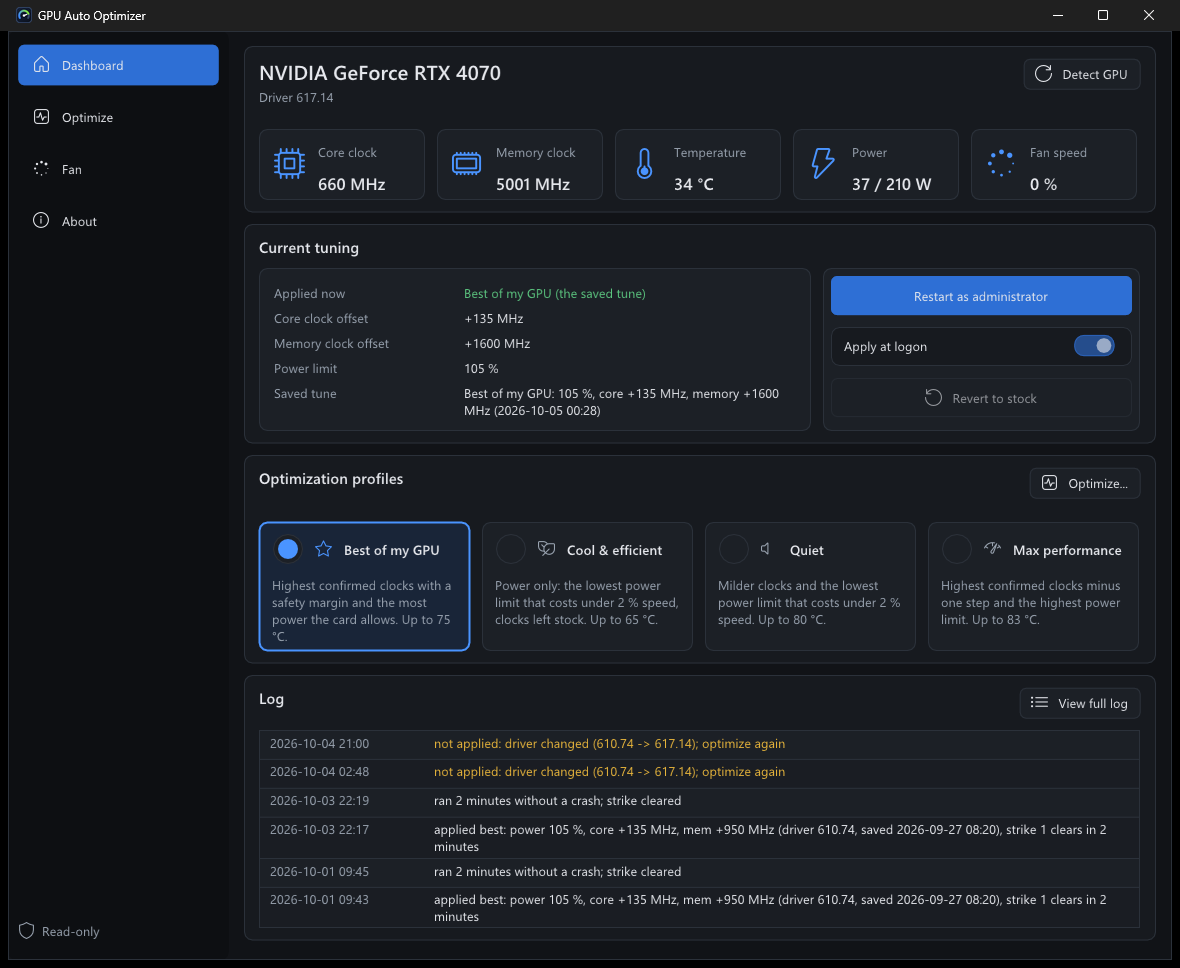
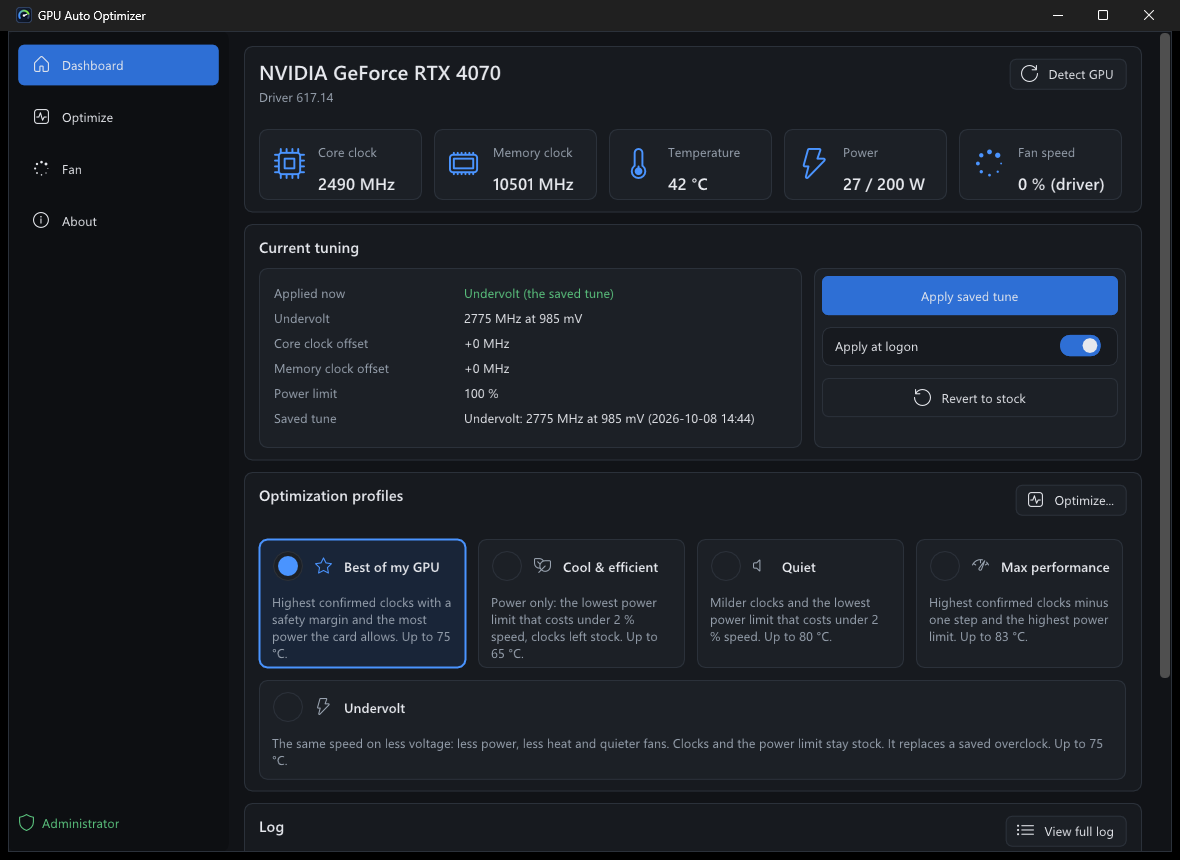
feat(gui): a run draws the curve; the result says how long each side ran and at what fan speed
During a run from the window the run screen draws the card's
voltage/frequency curve as the run writes it, read back once a second, over
the card's own curve, with a dot where the card runs now. An undervolt shows
as a flat top that starts one point further left with each candidate; an
overclock lifts the whole line. The result screen shows the curve as the run
left it.

The before/after table compared a 30 s run at stock with the 300 s soak
without saying so. It now names both durations in its headers, shows the fan
speed each run ended on next to its peak temperature (StabilityResult
end_fan_pct; the command line prints it too), and says that the short stock
run was not heated through, so that only score, clock and power compare
directly.

README and design notes: the Undervolt profile, the curve picture, the
watchdog's new rule, and what the hardware checks of this branch found: the
power saved depends on the temperature the card settles at (25, 22, 20 and
12 % in four runs), because the built-in curve moves under the written
offsets.

Hardware check 70 on the reference RTX 4070.

diff --git a/src/app/gui/ui.cpp b/src/app/gui/ui.cpp
@@ -699,6 +699,96 @@ void choose(UiState& s, const UiActions& act) {
     end_card();
 }
 
+// The voltage/frequency curve a run is writing (UiState::run_curve) over the
+// card's own (run_stock): higher means faster at that voltage. An overclock
+// lifts the whole line; an undervolt lifts the part left of where the card
+// ran and cuts the top off flat. The dot (live: during the run) is where the
+// card runs now: the lowest voltage at which the curve reaches the clock it
+// reports.
+void curve_card(const UiState& s, const char* caption, bool live) {
+    if (s.run_curve.size() < 2) return;   // no run yet, or this card or driver does not offer the curve
+    begin_card("curve");
+    heading("Voltage/frequency curve");
+    wrapped(kDim, caption);
+    const float w = ImGui::GetContentRegionAvail().x, h = em() * 13;
+    const ImVec2 p0 = ImGui::GetCursorScreenPos();
+    ImGui::Dummy(ImVec2(w, h));
+    ImDrawList* dl = ImGui::GetWindowDrawList();
+    dl->AddRectFilled(p0, ImVec2(p0.x + w, p0.y + h), ImGui::GetColorU32(kInner), em() * 0.35f);
+
+    float v_lo = s.run_curve.front().volt_uv / 1000.0f, v_hi = v_lo;
+    float f_lo = s.run_curve.front().freq_khz / 1000.0f, f_hi = f_lo;
+    for (const std::vector<VfPoint>* curve : {&s.run_stock, &s.run_curve})
+        for (const VfPoint& pt : *curve) {
+            v_lo = std::min(v_lo, pt.volt_uv / 1000.0f);
+            v_hi = std::max(v_hi, pt.volt_uv / 1000.0f);
+            f_lo = std::min(f_lo, pt.freq_khz / 1000.0f);
+            f_hi = std::max(f_hi, pt.freq_khz / 1000.0f);
+        }
+    if (v_hi <= v_lo || f_hi <= f_lo) {
+        end_card();
+        return;
+    }
+    const float pad = (f_hi - f_lo) * 0.06f;
+    f_lo -= pad;
+    f_hi += pad;
+    // Room for the axis labels on the left and below.
+    const ImVec2 a(p0.x + em() * 4.6f, p0.y + em() * 0.7f), b(p0.x + w - em() * 1.0f, p0.y + h - em() * 1.9f);
+    auto at = [&](float mv, float mhz) {
+        return ImVec2(a.x + (mv - v_lo) / (v_hi - v_lo) * (b.x - a.x), b.y - (mhz - f_lo) / (f_hi - f_lo) * (b.y - a.y));
+    };
+    const ImU32 grid = ImGui::GetColorU32(kBorder), label = ImGui::GetColorU32(kDim);
+    char text[48];
+    for (int mhz = (static_cast<int>(f_lo) / 500 + 1) * 500; mhz < f_hi; mhz += 500) {
+        const float y = at(v_lo, static_cast<float>(mhz)).y;
+        dl->AddLine(ImVec2(a.x, y), ImVec2(b.x, y), grid);
+        std::snprintf(text, sizeof(text), "%d MHz", mhz);
+        dl->AddText(ImVec2(a.x - ImGui::CalcTextSize(text).x - em() * 0.5f, y - em() * 0.5f), label, text);
+    }
+    for (int mv = (static_cast<int>(v_lo) / 100 + 1) * 100; mv < v_hi; mv += 100) {
+        const float x = at(static_cast<float>(mv), f_lo).x;
+        dl->AddLine(ImVec2(x, a.y), ImVec2(x, b.y), grid);
+        std::snprintf(text, sizeof(text), "%d mV", mv);
+        dl->AddText(ImVec2(x - ImGui::CalcTextSize(text).x / 2, b.y + em() * 0.35f), label, text);
+    }
+    auto line = [&](const std::vector<VfPoint>& curve, const ImVec4& colour, float thickness) {
+        std::vector<ImVec2> points;
+        for (const VfPoint& pt : curve) points.push_back(at(pt.volt_uv / 1000.0f, pt.freq_khz / 1000.0f));
+        if (points.size() > 1)
+            dl->AddPolyline(points.data(), static_cast<int>(points.size()), ImGui::GetColorU32(colour), ImDrawFlags_None, thickness);
+    };
+    line(s.run_stock, kDim, em() * 0.09f);
+    line(s.run_curve, kAccentBright, em() * 0.16f);
+
+    // Where the card is now. Nothing while it idles below the curve.
+    std::string now;
+    const int now_khz = s.telemetry.core_mhz * 1000;
+    if (live && now_khz >= s.run_curve.front().freq_khz - kVfToleranceKhz) {
+        for (const VfPoint& pt : s.run_curve) {
+            if (pt.freq_khz < now_khz - kVfToleranceKhz) continue;
+            const ImVec2 dot = at(pt.volt_uv / 1000.0f, pt.freq_khz / 1000.0f);
+            dl->AddCircleFilled(dot, em() * 0.38f, ImGui::GetColorU32(kGood));
+            dl->AddCircle(dot, em() * 0.38f, ImGui::GetColorU32(kBg), 0, em() * 0.1f);
+            now = "Now: " + std::to_string(s.telemetry.core_mhz) + " MHz, which this curve reaches at " +
+                  std::to_string(pt.volt_uv / 1000) + " mV";
+            break;
+        }
+    }
+    // The legend, top left, where neither curve runs.
+    float y = a.y + em() * 0.2f;
+    auto legend = [&](const ImVec4& colour, const std::string& name, bool is_dot) {
+        const float x = a.x + em() * 0.8f;
+        if (is_dot) dl->AddCircleFilled(ImVec2(x + em() * 0.7f, y + em() * 0.55f), em() * 0.3f, ImGui::GetColorU32(colour));
+        else dl->AddLine(ImVec2(x, y + em() * 0.55f), ImVec2(x + em() * 1.4f, y + em() * 0.55f), ImGui::GetColorU32(colour), em() * 0.16f);
+        dl->AddText(ImVec2(x + em() * 2.0f, y), ImGui::GetColorU32(kText), name.c_str());
+        y += em() * 1.35f;
+    };
+    legend(kAccentBright, "The curve on the card", false);
+    if (!s.run_stock.empty()) legend(kDim, "The card's own curve (stock)", false);
+    if (!now.empty()) legend(kGood, now, true);
+    end_card();
+}
+
 void run_screen(UiState& s, const OptimizeWorker::Snapshot& run, const UiActions& act) {
     begin_card("run");
     text_bold(s.preset == Preset::Undervolt ? "Finding the undervolt"
@@ -722,6 +812,8 @@ void run_screen(UiState& s, const OptimizeWorker::Snapshot& run, const UiActions
     plot("##power", s.power_history, 0, static_cast<float>(std::max(s.telemetry.power_limit_w, 1)), overlay, w);
     end_card();
 
+    curve_card(s, "What the run writes to the card, read back every second. Higher is faster at that voltage.", true);
+
     begin_card("probes");
     heading("Probes");
     ImGui::PushStyleColor(ImGuiCol_ChildBg, kInner);
@@ -735,15 +827,25 @@ void run_screen(UiState& s, const OptimizeWorker::Snapshot& run, const UiActions
     if (!run.running && run.ended()) s.screen = Screen::Results;
 }
 
+std::string duration_text(double seconds) {
+    char buf[32];
+    if (seconds < 90) std::snprintf(buf, sizeof(buf), "%.0f s", seconds);
+    else std::snprintf(buf, sizeof(buf), "%.0f min", seconds / 60);
+    return buf;
+}
+
 // A before/after table; `rows` fills it through `row(name, before, after)`.
+// The two runs it compares differ in length, and it says so: a card is not
+// heated through after half a minute, so the temperature and the fan speed
+// of the short run read lower than they would on a warm card.
 template <typename Rows>
-void comparison(Rows rows) {
+void comparison(const StabilityResult& before, const StabilityResult& after, Rows rows) {
     if (!ImGui::BeginTable("cmp", 3, ImGuiTableFlags_RowBg | ImGuiTableFlags_BordersInnerH | ImGuiTableFlags_BordersOuter |
                                          ImGuiTableFlags_SizingStretchSame | ImGuiTableFlags_PadOuterX))
         return;
     ImGui::TableSetupColumn("");
-    ImGui::TableSetupColumn("Before (stock)");
-    ImGui::TableSetupColumn("After");
+    ImGui::TableSetupColumn(("Before (stock, " + duration_text(before.seconds) + ")").c_str());
+    ImGui::TableSetupColumn(("After (" + duration_text(after.seconds) + ")").c_str());
     ImGui::TableHeadersRow();
     rows([](const char* name, const std::string& a, const std::string& b) {
         ImGui::TableNextRow(ImGuiTableRowFlags_None, em() * 1.6f);
@@ -752,6 +854,10 @@ void comparison(Rows rows) {
         ImGui::TableNextColumn(); ImGui::TextUnformatted(b.c_str());
     });
     ImGui::EndTable();
+    if (after.seconds > 3 * before.seconds)
+        wrapped(kDim, "The stock run lasted " + duration_text(before.seconds) +
+                          ", too short to heat the card through: its temperature and fan speed read lower than they would after " +
+                          duration_text(after.seconds) + ". Score, clock and power compare directly.");
 }
 
 std::string score_text(double score) {
@@ -788,11 +894,12 @@ bool optimize_result(const app::OptimizeOutcome& o) {
                   r.core_confirmed, r.mem_confirmed);
     wrapped(kDim, line);
     ImGui::Spacing();
-    comparison([&](auto row) {
+    comparison(r.baseline, r.soak, [&](auto row) {
         row("Score", score_text(r.baseline.score), against(r.baseline.score, r.soak.score, "it/s"));
         row("Core clock", reading(r.baseline.avg_core_mhz, " MHz"), reading(r.soak.avg_core_mhz, " MHz"));
         row("Memory clock", reading(r.baseline.avg_mem_mhz, " MHz"), reading(r.soak.avg_mem_mhz, " MHz"));
         row("Peak temperature", reading(r.baseline.peak_temp_c, " \xC2\xB0""C"), reading(r.soak.peak_temp_c, " \xC2\xB0""C"));
+        row("Fan speed at the end", reading(r.baseline.end_fan_pct, " %"), reading(r.soak.end_fan_pct, " %"));
         row("Power", reading(r.baseline.avg_power_w, " W"), reading(r.soak.avg_power_w, " W"));
     });
     return true;
@@ -820,11 +927,12 @@ bool undervolt_result(const app::UndervoltOutcome& o) {
                   r.edge_uv / 1000, r.confirmed_uv / 1000);
     wrapped(kDim, line);
     ImGui::Spacing();
-    comparison([&](auto row) {
+    comparison(r.baseline, r.after, [&](auto row) {
         row("Score", score_text(r.baseline.score), against(r.baseline.score, r.after.score, "it/s"));
         row("Core clock", reading(r.baseline.avg_core_mhz, " MHz"), reading(r.after.avg_core_mhz, " MHz"));
         row("Voltage for that clock", std::to_string(r.stock_uv / 1000) + " mV", std::to_string(r.applied_uv / 1000) + " mV");
         row("Peak temperature", reading(r.baseline.peak_temp_c, " \xC2\xB0""C"), reading(r.after.peak_temp_c, " \xC2\xB0""C"));
+        row("Fan speed at the end", reading(r.baseline.end_fan_pct, " %"), reading(r.after.end_fan_pct, " %"));
         row("Power", reading(r.baseline.avg_power_w, " W"),
             r.baseline.avg_power_w > 0 && r.after.avg_power_w >= 0 ? against(r.baseline.avg_power_w, r.after.avg_power_w, "W")
                                                                    : reading(r.after.avg_power_w, " W"));
@@ -851,6 +959,7 @@ void results(UiState& s, const OptimizeWorker::Snapshot& run, const UiActions& a
     }
     if (ImGui::Button(with_icon(kIconBack, "Back").c_str())) s.screen = Screen::Choose;
     end_card();
+    if (applied) curve_card(s, "As the run left it. Higher is faster at that voltage.", false);
 }
 
 void optimize_page(UiState& s, const OptimizeWorker::Snapshot& run, const UiActions& act) {

diff --git a/src/app/main.cpp b/src/app/main.cpp
@@ -274,10 +274,13 @@ static int optimize(gao::Preset preset, const std::optional<gao::FanCurve>& fan_
     std::printf("RESULT: power %d %%, core +%d MHz (confirmed +%d), mem +%d MHz (confirmed +%d)\n",
                 r.power_pct, r.core_mhz, r.core_confirmed, r.mem_mhz, r.mem_confirmed);
     if (r.driver_resets > 0) std::printf("  driver resets during this run: %d\n", r.driver_resets);
-    std::printf("  before: score=%.0f it/s  core=%d MHz  mem=%d MHz  peak=%d C  power=%d W\n",
-                r.baseline.score, r.baseline.avg_core_mhz, r.baseline.avg_mem_mhz, r.baseline.peak_temp_c, r.baseline.avg_power_w);
-    std::printf("  after:  score=%.0f it/s  core=%d MHz  mem=%d MHz  peak=%d C  power=%d W\n",
-                r.soak.score, r.soak.avg_core_mhz, r.soak.avg_mem_mhz, r.soak.peak_temp_c, r.soak.avg_power_w);
+    // The two runs differ in length: the temperature and the fan speed of the short one are not those of a warm card.
+    std::printf("  before: score=%.0f it/s  core=%d MHz  mem=%d MHz  peak=%d C  fan=%s  power=%d W  (%.0f s)\n",
+                r.baseline.score, r.baseline.avg_core_mhz, r.baseline.avg_mem_mhz, r.baseline.peak_temp_c,
+                gao::reading(r.baseline.end_fan_pct, " %").c_str(), r.baseline.avg_power_w, r.baseline.seconds);
+    std::printf("  after:  score=%.0f it/s  core=%d MHz  mem=%d MHz  peak=%d C  fan=%s  power=%d W  (%.0f s)\n",
+                r.soak.score, r.soak.avg_core_mhz, r.soak.avg_mem_mhz, r.soak.peak_temp_c,
+                gao::reading(r.soak.end_fan_pct, " %").c_str(), r.soak.avg_power_w, r.soak.seconds);
     if (out.saved) {
         std::printf("Saved: `gao --apply` re-applies it, `gao --boot on` applies it at every logon.\n");
         if (const std::string note = gao::app::update_logon_copy(); !note.empty()) std::printf("%s\n", note.c_str());
@@ -311,10 +314,12 @@ static int undervolt() {
     std::printf("RESULT: %d MHz at %d mV instead of %d mV (lowest stable %d mV, confirmed %d mV)\n", r.freq_khz / 1000,
                 r.applied_uv / 1000, r.stock_uv / 1000, r.edge_uv / 1000, r.confirmed_uv / 1000);
     if (r.driver_resets > 0) std::printf("  driver resets during this run: %d\n", r.driver_resets);
-    std::printf("  before: score=%.0f it/s  core=%d MHz  peak=%d C  power=%d W\n", r.baseline.score, r.baseline.avg_core_mhz,
-                r.baseline.peak_temp_c, r.baseline.avg_power_w);
-    std::printf("  after:  score=%.0f it/s  core=%d MHz  peak=%d C  power=%d W\n", r.after.score, r.after.avg_core_mhz,
-                r.after.peak_temp_c, r.after.avg_power_w);
+    std::printf("  before: score=%.0f it/s  core=%d MHz  peak=%d C  fan=%s  power=%d W  (%.0f s)\n", r.baseline.score,
+                r.baseline.avg_core_mhz, r.baseline.peak_temp_c, gao::reading(r.baseline.end_fan_pct, " %").c_str(),
+                r.baseline.avg_power_w, r.baseline.seconds);
+    std::printf("  after:  score=%.0f it/s  core=%d MHz  peak=%d C  fan=%s  power=%d W  (%.0f s)\n", r.after.score,
+                r.after.avg_core_mhz, r.after.peak_temp_c, gao::reading(r.after.end_fan_pct, " %").c_str(),
+                r.after.avg_power_w, r.after.seconds);
     if (out.saved) {
         std::printf("Saved: `gao --apply` re-applies it, `gao --boot on` applies it at every logon.\n");
         if (const std::string note = gao::app::update_logon_copy(); !note.empty()) std::printf("%s\n", note.c_str());

diff --git a/src/app/gui/main_gui.cpp b/src/app/gui/main_gui.cpp
@@ -480,6 +480,8 @@ void hw_lost();   // below, with the other hardware helpers
 
 void act_optimize(gao::Preset preset) {
     fan_release();   // the search drives the fans itself
+    g.ui.run_curve.clear();
+    g.ui.run_stock.clear();
     const auto fan = g.ui.optimize_fan ? std::optional<gao::FanCurve>(gao::fan_preset_curve(*g.ui.optimize_fan)) : std::nullopt;
     g.worker->start(preset, fan);   // the watchdog skips while it runs
 }
@@ -809,6 +811,14 @@ void on_telemetry() {
             notify("Another program (Afterburner, NVIDIA App...) set the fan speed. Leaving the fans alone.");
     }
     if (g.gpu.read_applied) g.ui.applied = g.gpu.read_applied();
+    // What a run of ours is doing to the curve, for its picture on the run
+    // screen. A read only; a failed one keeps the last picture.
+    if (g.worker->running() && g.gpu.read_vf_curve) {
+        if (auto curve = g.gpu.read_vf_curve(); curve && !curve->empty()) {
+            if (gao::curve_state(*curve, 0) == gao::CurveState::Stock) g.ui.run_stock = *curve;
+            g.ui.run_curve = std::move(*curve);
+        }
+    }
     wchar_t tip[128];
     const gao::Telemetry& t = g.ui.telemetry;
     swprintf_s(tip, L"GPU Auto Optimizer\n%d C, %d MHz%s", t.temp_c, t.core_mhz, g.watch ? L", tune kept applied" : L"");

diff --git a/tests/test_stability.cpp b/tests/test_stability.cpp
@@ -177,3 +177,17 @@ TEST_CASE("without a floor a run that computes nothing is not stalled") {
     const auto r = run_stability([] { return StressBatch{0, 0, false, 250}; }, [] { return tel(60); }, 4.0, 85);
     CHECK(r.verdict == Verdict::Stable);
 }
+
+TEST_CASE("the fan speed a run ended on is reported next to its peak temperature") {
+    // A temperature says little without the fan speed it was held with: the
+    // same card reads the same temperature at half the fan speed when it
+    // draws less power.
+    int calls = 0;
+    const auto r = run_stability([&] { ++calls; return good(); },
+                                 [&] { Telemetry t = tel(55 + calls); t.fan_pct = 40 + calls; return t; }, 1.0, 85);
+    CHECK(calls == 4);
+    CHECK(r.peak_temp_c == 59);
+    CHECK(r.end_fan_pct == 44);
+    // A card that does not report its fans.
+    CHECK(run_stability([] { return good(); }, [] { return tel(60); }, 0.5, 85).end_fan_pct == -1);
+}

diff --git a/src/app/gui/ui.hpp b/src/app/gui/ui.hpp
@@ -56,6 +56,12 @@ struct UiState {
     int fan_max_temp_c = 75;
     FanState fan_state;
     std::optional<FanPreset> optimize_fan;   // fan curve for the next run; empty: the profile's own
+    // The voltage/frequency curve during a run from this window, read back
+    // once a second: as the run last left it, and as it last read at stock.
+    // Both stay after the run, for its result screen. Empty: no run yet, or
+    // the card does not offer the curve.
+    std::vector<VfPoint> run_curve;
+    std::vector<VfPoint> run_stock;
 
     std::string update_version;   // a newer release that can be installed ("0.3.2"); empty: none known
     bool update_busy = false;     // it is being downloaded and installed

diff --git a/src/core/stability.hpp b/src/core/stability.hpp
@@ -22,6 +22,7 @@ struct StabilityResult {
     double score = 0;          // iterations per second over the covered time
     double seconds = 0;        // run time actually covered (sum of batch times)
     int peak_temp_c = -1;
+    int end_fan_pct = -1;      // the fan speed at the last sample: what the peak temperature was reached with; -1 when unknown
     int avg_power_w = -1;      // -1 when no sample reported the value
     int avg_core_mhz = -1;
     int avg_mem_mhz = -1;

diff --git a/src/core/stability.cpp b/src/core/stability.cpp
@@ -41,6 +41,7 @@ StabilityResult run_stability(const std::function<StressBatch()>& batch,
         const Telemetry t = read();
         if (!t.ok) { r.verdict = Verdict::NoTelemetry; break; }
         r.peak_temp_c = std::max(r.peak_temp_c, t.temp_c);
+        r.end_fan_pct = t.fan_pct;
         power.add(t.power_w, batch_s);
         core.add(t.core_mhz, batch_s);
         mem.add(t.mem_mhz, batch_s);

diff --git a/docs/hardware-checks.md b/docs/hardware-checks.md
@@ -15,6 +15,7 @@ elevation either: the stress load only computes, it writes no settings.
 Checks 13-16 run `--optimize`, which writes clocks and the power limit: elevated.
 Checks 46-52 run `--optimize` as well and need an elevated shell; check 45 compares `--probe` with another tool.
 Checks 54-56 exercise the window after its display device went away; 54 and 55 change no GPU setting, 56 does run a search (from the window, elevated), which writes clocks and the power limit.
+Checks 62-70 write the voltage/frequency curve (all but 61, which only reads it) and need an elevated shell; 68 forces two driver resets, and 69 and 70 run the undervolt search from the window.
 Checks 17-22 cover persistence; 19 and 20 need a log-off and log-on.
 
 Commands assume a Release build at `.\build\Release\gao.exe` from the repo
@@ -96,6 +97,7 @@ root; adjust the path for a Debug build.
 | 67 | A saved undervolt is applied, by hand and at logon | Tray app exited; keep a copy of `gao.json`; put the profile check 66 saved in its place. Elevated: (A) `gao --reset`, `gao --apply`, `gao --status`, `gao --curve`, `gao --stress 20`; (B) `gao --apply` again; (C) `gao --apply` with, one at a time, `volt_uv` changed to a voltage the curve does not have, `raise_khz` set to 60000, `core_mhz` set to 30, and `raise_khz` removed; (D) the saved profile again, `gao --reset`, then `GpuAutoOptimizer.exe --tray` started elevated (what the logon task runs), `boot.log`, `gao --status`, exit from the tray; (E) the same start with the unknown voltage; (F) with the flat top applied, `gao --apply` with the overclock profile, then with the undervolt again, then with a profile that has core +0 and no undervolt. At the end `gao --reset` and the copy of `gao.json` back | yes | (A) `applied undervolt: N MHz at A mV ...`, `OK`; `--status` shows `undervolt:  applied`; the curve has offsets from A mV up and none below; the stress run is `STABLE` at the power of check 66. (B) the same again. (C) each ends `not applied: ...` with exit 1 and every raw offset 0: no point at that voltage, the raise it was tested with, a core offset next to an undervolt, and (the undervolt not whole) no saved profile. (D) `boot.log`: `applied undervolt: ..., strike 1 clears in 2 minutes`; `undervolt:  applied`. (E) `boot.log`: `apply failed: the undervolt was not applied: ... -- card at stock`, the curve at stock, `boot_strikes` unchanged. (F) the overclock leaves the same offset on every point; the undervolt over it leaves the flat top; the profile with core +0 leaves every raw offset 0 | Pass (2026-10-08, reference RTX 4070, driver 617.14, a build of 00fea70 with the second step of the branch `undervolt-in-app`, elevated, driven by a script, the profile of check 66: 2760 MHz at 970 mV, tested with a raise of 195 MHz). (A) After the reset 0 of 127 raw offsets were other than 0. `applied undervolt: 2760 MHz at 970 mV, power 100 %, core +0 MHz, mem +0 MHz (driver 617.14, saved 2026-10-08 14:03)`, `OK`, exit 0, within a second. `gao --status`: `applied: power 100 %, core +0 MHz, mem +0 MHz`, `undervolt:  applied`. The curve: 43 raw offsets other than 0, the lowest at 970 mV (raw 180000, 2760.0 MHz), no point above 2760 MHz. `gao --stress 20`: `STABLE`, 135 W on average, peak 55 C; the curve read the same after it. (B) The same line and the same curve. (C) `not applied: the undervolt was not applied: the card's curve has no point at 971 mV -- card at stock`; `not applied: the undervolt was not applied: the curve point would be raised by 180 MHz; the undervolt was tested with 60 MHz -- card at stock`; `not applied: a core offset and an undervolt cannot be combined; nothing applied`; `not applied: no saved profile; run an optimize first` (and `gao --status`: `profile: none valid in ...`). Exit 1 each time, every raw offset 0 afterwards, and `undervolt:  not applied (the curve is at stock)`. (D) `boot.log`: `applied undervolt: 2760 MHz at 970 mV, ..., strike 1 clears in 2 minutes`; `undervolt:  applied`; the same curve as in (A). The strike read 0 ten seconds later, not 1: this start came from the build folder, found another build in Program Files and replaced it, and installing the logon copy resets the strikes (as it did before this branch). The start of the installed copy at the end of the script showed `strikes: 1 of 3`. (E) `boot.log`: `apply failed: the undervolt was not applied: the card's curve has no point at 971 mV -- card at stock`; every raw offset 0; `boot_strikes` 0 before and after. (F) The overclock (`best: power 105 %, core +135 MHz, mem +1500 MHz`) over the flat top: raw 135000 on all 127 points. The undervolt over that: the flat top of (A) again, `applied: power 100 %, core +0 MHz, mem +0 MHz`. A profile with core +0 over the flat top: every raw offset 0. Not done: a real log-off and log-on with the undervolt saved. |
 | 68 | The watchdog and a saved undervolt | Keep a copy of `gao.json`; put the profile check 66 saved in its place; exit the tray app. Elevated: `gao --reset`, then `GpuAutoOptimizer.exe --tray` of this build. (A) wait 40 s. (B) four times: `gao --set-core 15` and `gao --set-core 0` right after each other (a uniform offset replaces the flat top, then none is left), wait for the next `watchdog:` line in `boot.log`, `gao --status`, `gao --curve`; then wait 45 s more. (C) start the tray app again, `gao --set-core 30`, wait 60 s. (D) no tray app: `gao --apply`, `dxcap -forcetdr`, `gao --curve` after 12 s. (E) the tray app again, `dxcap -forcetdr`, wait for the `watchdog:` line. At the end `gao --reset` and the copy of `gao.json` back | yes | (A) `boot.log`: `applied undervolt: ...`; no `watchdog:` line while nothing changes. (B) the first three times `watchdog: the tune had been reset (driver reset or TDR); re-applied` within 30 s and `undervolt:  applied` again; the fourth time `watchdog: 4 resets within an hour; stopped re-applying, card at stock`, every raw offset 0, and nothing is re-applied afterwards. (C) `watchdog: another program changed the GPU settings; leaving them alone`, and the offset is still there a minute later. (D) to be observed and recorded: whether a driver reset leaves the flat top on the curve. (E) the tray app is still running, no new `crash-*.dmp`, and the undervolt is applied again within a minute (or, if the driver kept it, was never gone); the Windows System log shows the forced reset and no other | Pass (2026-10-08, reference RTX 4070, driver 617.14, a build of 0cd4b36 with the third step of the branch `undervolt-in-app`, elevated, driven by a script, the profile of check 66: 2760 MHz at 970 mV). (A) `applied undervolt: 2760 MHz at 970 mV, ..., strike 1 clears in 2 minutes`; `undervolt:  applied`; no `watchdog:` line in 40 s. (B) After the two offset writes the curve read 0 of 127 raw offsets other than 0 each time. `watchdog: the tune had been reset (driver reset or TDR); re-applied` came 10, 27 and 28 s later, each followed by `undervolt:  applied` and the flat top on the curve again (lowest offset at 970 mV, raw 180000, no point above 2760 MHz). The fourth time, 27 s later: `watchdog: the driver reset 4 times within an hour; stopped re-applying, card at stock` (that line now reads `watchdog: 4 resets within an hour; stopped re-applying, card at stock`: here it was the tune that had been reset, not the driver), `undervolt:  not applied (the curve is at stock)`, every raw offset 0; no further line in 45 s and the curve still at stock. (C) After `gao --set-core 30` (raw 30000 on all 127 points): `watchdog: another program changed the GPU settings; leaving them alone` 20 s later; 35 s after that the curve still read 30000 on every point and `gao --status` `applied: power 100 %, core +30 MHz, mem +0 MHz`, `undervolt:  not applied (the curve carries other offsets)`. (D) Before the forced reset the flat top was on the curve; 12 s after it every raw offset read 0 and `undervolt:  not applied (the curve is at stock)`: a driver reset removes a flat top, as it removes a core offset. Windows System log: three nvlddmkm 153 events within two seconds. (E) 6 s after the forced reset the tray app was running and the curve was at stock; `watchdog: the tune had been reset (driver reset or TDR); re-applied` came 14 s after the script had started the reset, and the curve carried the flat top again (`undervolt:  applied`). The tray app was still running, one `crash-*.dmp` in the state folder before and after, and the Windows System log showed three nvlddmkm 153 events within two seconds and nothing else. Not exercised on hardware: a reset that leaves the tune applied (it does not happen on this card and driver; unit tests cover the count), and four real driver resets within an hour. The desktop after the two forced resets is the owner's to judge. |
 | 69 | The undervolt from the window | Keep a copy of `gao.json`; exit the tray app; start this build's `GpuAutoOptimizer.exe` elevated. Dashboard: the profile cards. Optimize page: select **Undervolt**, press **Undervolt GPU**, let the run end. Then the dashboard, `gao --status`, and `gao --set-core 15` followed by `gao --set-core 0` with the app still running; `boot.log` 40 s later. With a saved undervolt applied (`gao --apply`) start the app again and look at the dashboard. At the end `gao --reset` and the copy of `gao.json` back | yes | the dashboard and the Optimize page show a fifth card, **Undervolt**, under the four clock profiles, its text not cut off; with it selected the button reads **Undervolt GPU**, the time **About 8 minutes** and the fan-curve choice is greyed out; the run screen is titled **Finding the undervolt** and lists the probes of check 63; the result screen says `Applied: N MHz at A mV instead of V mV`, has a before/after table and `Saved.`; `gao --status` shows the undervolt profile and `undervolt:  applied`; after the two offset writes `boot.log` gets `watchdog: the tune had been reset ...; re-applied` (a run from the window leaves the watchdog on); the dashboard shows `Applied now: Undervolt (the saved tune)` and a row `Undervolt  N MHz at A mV` | Pass (2026-10-08, reference RTX 4070, driver 617.14, a build of ae2e6bc with the fourth step of the branch `undervolt-in-app`, started elevated by a script that took pictures of the window and clicked in it). The fifth card showed on both pages; on the dashboard its text was cut off after the first line in the first build and the card was made as tall as its text (seen in a second build). With the card selected: **Undervolt GPU**, **About 8 minutes of full GPU load.**, the fan-curve row greyed out. The run, started with the click on the button: **Finding the undervolt**, `baseline: 30 s at stock`, one line per candidate down to `940 mV (+285 MHz): WRONG RESULT`, `confirm 945 mV (+270 MHz): STABLE`, `undervolt: lowest stable 945 mV, confirmed 945 mV, applying 985 mV (+180 MHz at that point)`, the soak. Result screen: `Applied: 2775 MHz at 985 mV instead of 1075 mV`, `Lowest stable voltage: 945 mV, confirmed 945 mV.`; score 5694 and 5681 it/s (-0.2 %), core clock 2774 and 2775 MHz, peak temperature 61 and 61 C, power 186 and 163 W (-12.4 %); `Saved. It stays applied until reboot; ...`. `gao --status`: `profile: undervolt: 2775 MHz at 985 mV, ... saved 2026-10-08 14:26`, `undervolt:  applied`. After the two offset writes the curve was at stock; `watchdog: the tune had been reset (driver reset or TDR); re-applied` came within 36 s and the flat top was back. With the profile of check 66 applied the dashboard read `Applied now: Undervolt (the saved tune)`, `Undervolt  2760 MHz at 970 mV`, core and memory offset +0 MHz, power limit 100 %. Two things this run showed and did not settle. The saving was smaller than in checks 63 and 66 (-25 % and -22 %): a 60 s stress run with the result applied drew 148 to 151 W at 2775 MHz up to 56 C and 165 W from 59 C on, at the same clock; and with the card cold the curve points from 1020 mV up read 2790 MHz, one step above the flat top. The built-in curve moves with temperature under the offsets that were written, so the top does not stay flat. And the table compares a 30 s run at stock with a 300 s run: the temperatures are not like for like. |
+| 70 | The run draws the curve, and the result says what it compares | As check 69, with a build that has the curve picture: start an undervolt run from the window and watch the run screen; then the result screen | yes | during the run a card **Voltage/frequency curve** shows the curve on the card over the card's own, changing as the candidates change: a flat top that starts one point further left each time, and a dot where the card runs now with the voltage in the legend; the result screen names the length of both runs in the table's headers, has a row **Fan speed at the end**, says under the table that the short stock run was not heated through, and shows the curve as the run left it, without the dot | Pass (2026-10-08, reference RTX 4070, driver 617.14, a build of 86a0d4c with the fifth step of the branch `undervolt-in-app`, started elevated by a script that took pictures of the window). 90 s into the run the picture showed the stock curve in grey, the written curve in blue leaving it near 975 mV and running flat at 2775 MHz to the right, and `Now: 2775 MHz, which this curve reaches at 975 mV` with the candidate `990 mV (+165 MHz)` just passed in the probe list. Result screen: `Applied: 2775 MHz at 985 mV instead of 1075 mV`; headers `Before (stock, 30 s)` and `After (5 min)`; score 5705 and 5583 it/s (-2.1 %), core clock 2775 and 2761 MHz, peak temperature 59 and 59 C, fan speed at the end 60 and 62 %, power 185 and 148 W (-20.0 %); the note about the short stock run; the curve as the run left it. In a first build the dot followed the idle card on the result screen (`Now: 735 MHz ...`); it is now drawn during a run only (seen compiled, not seen on screen). The curve picture during an overclock run (`gao --optimize` profiles from the window) was not looked at. |
 
 ## Notes
 

diff --git a/README.md b/README.md
@@ -14,15 +14,16 @@
 
 [**Download**](https://github.com/Rovey/gpu-auto-optimizer/releases/latest) · [How it works](#how-it-works) · [Command line](#command-line) · [FAQ](#faq)
 
-<img src="docs/images/dashboard.png" width="860" alt="The GPU Auto Optimizer dashboard: live telemetry, the current tuning, the four profiles and the log">
+<img src="docs/images/dashboard.png" width="860" alt="The GPU Auto Optimizer dashboard: live telemetry, the current tuning, the profiles and the log">
 
 </div>
 
 ## What it does
 
-GPU Auto Optimizer tunes the **power limit** and the **core and memory clock offsets** of an NVIDIA card. It stress-tests every candidate setting and keeps the highest one that computes correct results, then backs off by a safety margin. You pick a goal and press one button; a run takes about a quarter of an hour.
+GPU Auto Optimizer tunes the **power limit** and the **core and memory clock offsets** of an NVIDIA card. It stress-tests every candidate setting and keeps the highest one that computes correct results, then backs off by a safety margin. You pick a goal and press one button; a run takes about a quarter of an hour. It can also **undervolt**: keep the speed the card has at stock and find the lowest voltage that holds it.
 
-- **Four profiles:** Best of my GPU, Cool & efficient, Quiet and Max performance.
+- **Four clock profiles and an undervolt:** Best of my GPU, Cool & efficient, Quiet and Max performance, or the same speed on less voltage.
+- **You see what it does:** during a run the window draws the card's voltage/frequency curve as the run writes it, over the card's own.
 - **Verified, not trusted:** every value written to the driver is read back and checked, and a failed apply ends at stock.
 - **Crash-proof search:** a journal on disk records each candidate before it is tried, so a setting that froze the machine is never tried again.
 - **Stays applied:** the tray app re-applies the tune at every logon, and within about half a minute after a driver reset (TDR).
@@ -85,8 +86,15 @@ Turning on **Apply at logon** copies the app to `%ProgramFiles%\GpuAutoOptimizer
 | **Cool & efficient** | Lowest power limit that costs under 2 % speed; clocks stay stock | 65 °C | power |
 | **Quiet** | Milder clocks and the lowest power limit that costs under 2 % speed | 80 °C | power, core, memory |
 | **Max performance** | Highest confirmed clocks minus one step, highest power limit | 83 °C | power, core, memory |
+| **Undervolt** | The clock the card runs under load at stock, on the lowest stable voltage plus the same margin; clocks and power limit stay stock | 75 °C | the voltage/frequency curve |
 
 The safety margin: the search finds the highest stable offset and applies a fraction of it (70 % for Best of my GPU), always at least one step below the edge.
+
+The undervolt is saved in place of an overclock, not next to it: on the card a core offset and the curve are one table. On the reference RTX 4070 four runs kept the stock clock within about 2 % of the stress-test score and saved 25 %, 22 %, 20 % and 12 % of the power (188 to 141 W at best). The saving depends on the temperature the card settles at: its built-in curve moves under the offsets that were written, and above about 57 °C the same clock cost about 15 W more.
+
+<div align="center">
+<img src="docs/images/undervolt-run.png" width="860" alt="An undervolt run: the curve on the card, cut off flat at the stock clock, over the card's own curve, with the probes below">
+</div>
 
 ## How it works
 
@@ -104,9 +112,10 @@ flowchart LR
 - **The core search climbs from stock.** With the chosen memory offset applied, it raises the core offset 15 MHz at a time until a probe fails, and keeps the last value that passed. How far it may go comes from the range the driver reports for your card, so a card that can hold more is not stopped at a fixed limit.
 - **Each edge is confirmed.** The value a search ends on gets a 30 s probe, and a lower value is tried if it does not hold. The safety margin is applied to the confirmed value, and the result as a whole must pass the 300 s soak.
 - **A driver reset ends that clock's search.** On a card the search can push past its edge, a search resets the driver: the screen goes black for a moment. The run then reconnects to the driver, sets the card to stock, leaves it without load for 20 seconds and checks with a short probe at stock that it computes normally again. After that the search tries no new values for that clock: it keeps the last value that passed and confirms four steps below it. Each clock has its own search, so a reset in the memory search does not keep the core from being searched; a run can therefore reset the driver twice, once per clock. One reset more than that ends the run at stock with nothing saved, and so does a card that does not come back. Results on real cards are in [docs/hardware-checks.md](docs/hardware-checks.md), checks 51 and 52.
+- **The undervolt search descends.** It measures the clock the card runs under load at stock and where on its voltage/frequency curve that clock sits. Then it raises a point one step lower on the curve to that clock and caps every point above it, so the card has no reason to ask for more voltage, and tests that; then the next point down, until one fails. The lowest point that passed gets the 30 s probe, the margin is applied to how far that point was raised, and the result must pass the 300 s soak. No voltage is locked and the points below stay as they are, so idle clocks do not change.
 - **Crash journal.** Before a candidate touches the hardware, a `begin` line is flushed to disk. If the machine freezes, the unmatched `begin` becomes a ceiling the next run stays below.
 - **Apply at logon.** A scheduled task starts the app in the tray at logon, which applies the saved profile. It refuses when the driver version or the card changed since tuning, and it stops after three logons in a row that crashed within two minutes.
-- **Tune watchdog.** Every 30 seconds the tray app reads back what the driver reports. It re-applies after a reset, gives up if the tune is reset four times in an hour (a sign it is not stable), and backs off when another program changed the settings.
+- **Tune watchdog.** Every 30 seconds the tray app reads back what the driver reports. It re-applies after a reset, and backs off when another program changed the settings. Four resets within an hour, of the tune or of the driver with the tune applied, are a sign it is not stable: the card is set to stock and the tune is no longer re-applied.
 
 ## Command line
 
@@ -115,12 +124,14 @@ flowchart LR
 | Command | What it does |
 |---|---|
 | `gao --optimize best\|quiet\|cool\|max [--fan-curve silent\|normal\|cool\|aggressive]` | Runs the search; exit code 0 when saved, 2 when applied but not saved |
+| `gao --undervolt` | Runs the undervolt search; saved like `--optimize`, in place of a saved overclock |
 | `gao --apply` | Re-applies the saved profile |
 | `gao --reset` | Returns to stock clocks and the default power limit |
 | `gao --boot on\|off` | Turns apply-at-logon on or off |
 | `gao --fan auto` | Hands every fan back to the NVIDIA driver, whatever set it (a running tray app takes them again on its next tick; switch Fan control off to keep the driver in charge) |
 | `gao --status` | Saved profile, what is applied now, apply-at-logon state |
 | `gao --probe` | Live telemetry: clocks, temperature, fan, power, clock-offset ranges |
+| `gao --curve` | Prints the voltage/frequency curve as the driver reports it; changes nothing |
 | `gao --stress <seconds>` | Runs the stress test alone and prints its verdict; changes nothing |
 | `gao --bandwidth` | Measures the current memory bandwidth |
 | `gao --update` | Installs the latest release into the folder `gao.exe` is in, if there is a newer one |
@@ -181,7 +192,7 @@ Yes. Each profile comes with a fan curve, and you can pick another (Silent, Norm
 <details>
 <summary><b>Does it undervolt?</b></summary>
 
-No. Locking a voltage point froze the reference card during development, so no profile touches the voltage curve.
+Yes, with the **Undervolt** profile. It does not lock a voltage (that froze the reference card during development): it reshapes the voltage/frequency curve so that the card reaches its stock clock at a lower voltage and nothing above it runs faster. It is found, tested and kept applied like an overclock, and it replaces one: the two cannot be saved together yet.
 </details>
 
 <details>

diff --git a/docs/development.md b/docs/development.md
@@ -85,7 +85,12 @@ The applied offset is always at least one step below the confirmed edge. Profile
 | Known limits of the health check | After a reset the stress load is rebuilt once, after the rest and before the health probe, outside its timing: it creates a new D3D device and recompiles its shader, so the probe's score no longer includes that. A rebuild that fails counts as a failed try of the health check (the rest and the check are tried up to three times) and its reason is logged (`the stress load could not be rebuilt: ...`); a fault during the rebuild ends the run through the crashed path (journal entry closed, card reset to stock). The load is rebuilt even when it did not notice the reset itself. Not yet measured on hardware. Still unknown: how long the rebuild takes after a reset (`gao --stress-recreate` measures the rebuild on a healthy driver only), whether the first health probe then passes at once, and whether the rest keeps the desktop usable. |
 | Nothing about a reset is kept for later runs | A reset says nothing certain about the candidate, and a stored one would let a single invalid probe lower the bound for good. The cost: a run on a card it can push past its edge crosses that edge again every time. Only a freeze is remembered, through the crash journal. |
 | An entry at stock clocks never becomes a ceiling | A ceiling of zero would mean "never search this clock", which no freeze at stock can justify. The soak and the +0 sample of the memory scan do not journal a clock that is at stock, and an open entry with an offset of 0 is reported as a freeze but lowers nothing. |
-| No undervolting | Locking a voltage point hard-froze the reference RTX 4070, and reshaping the curve gave no measurable gain on a power-limited card. |
+| No voltage lock | Locking a voltage point hard-froze the reference RTX 4070. An undervolt is a shape on the curve instead (see below). |
+| An undervolt is a profile, in place of an overclock | `gao --undervolt` and the Undervolt card save a profile with the preset `undervolt`, stock clocks and power, and the flat top: the anchor's voltage (the card's own number; a slot is the driver's), the clock, and the raise it was tested with. A core offset and a flat top are one table on the card (hardware check 65), so `apply_profile` refuses a profile that has both, and saving one replaces the other. Applying looks the anchor up by voltage and refuses, at stock, when the curve has no such point or the point would have to be raised more than it was tested with plus what the built-in curve moves with temperature. A profile whose undervolt cannot be read whole is no profile: read without it, it would apply as plain stock and look applied. A build from before this reads the unknown preset as no profile too. |
+| A flat top is judged by the curve, not by the offset read-out | The offset read-out reports core +0 with a flat top on the card (hardware check 66). `curve_state` tells stock, a flat top at the saved voltage and anything else apart by the raw offsets alone: frequencies move with temperature. The watchdog, `gao --status` and the dashboard use it. Every apply removes a flat top first, because an offset write that asks for what the driver already reports may change nothing. |
+| The watchdog counts resets, and gives up at stock | A driver reset removes a core offset and a flat top alike (hardware check 68), and the watchdog re-applies. A reset that leaves the tune applied counts the same: the tray app sees driver resets through its display device and passes them on, so a tune the driver kept across its resets is still found unstable. A search's own resets are not counted. On the fourth within an hour the card is set to stock, not left with whatever the driver kept. |
+| The run draws the curve | During a run from the window the telemetry tick reads the curve back once a second and the run screen draws it over the last read at stock: the search's own writes, not a picture of the plan. It is a read from the window's own driver connection, like the applied-state read that was there already. |
+| The result table says how long each side ran | The stock run is 30 s and the soak 300 s. A card is not heated through in 30 s, so the table names both durations, shows the fan speed each run ended on next to its peak temperature, and says that only score, clock and power compare directly. Known and open: a stock run as long as the soak would make temperature and fan speed comparable too, at the price of a run that takes four and a half minutes longer. |
 | Fans through NVML, stop zone via the driver | NVIDIA's legacy NVAPI fan API is gone on RTX 20-series and newer; NVML's `nvmlDeviceSetFanSpeed_v2` is public and verified by reading the target back. Below the stop threshold the driver owns the fans, so no failure of this app can leave them stopped. |
 | Tray app plus logon task | Driver settings are volatile: a reboot or driver reset clears them. The logon task starts the tray app, whose watchdog keeps the tune applied; three crashing logons in a row switch it off. |
 | An update is one click, and never more than that | The app asks GitHub for the latest release (`core/update`) and shows one line in the sidebar; nothing is downloaded until it is clicked. The zip must come from this project's releases over HTTPS and match the SHA-256 the GitHub API publishes for it, and both executables in it must carry the version the release claims. The order of these steps and every refusal are `install_release` in `core/update`, which gets its steps as callbacks and is tested with a fake source; a release without a usable SHA-256 is refused there too, not only by the parser, because an empty expectation would equal the hash of a file that cannot be read. Elevated, the download is unpacked under `%ProgramData%\GpuAutoOptimizer\update`, which only administrators can write, so nothing can be swapped between the check and the copy. The executables are replaced where they run from (a running one is renamed aside) and the app starts again with `--resume`, which keeps a tune that is applied under the watchdog. The trust this rests on is the GitHub account: the executables are not code-signed. |
